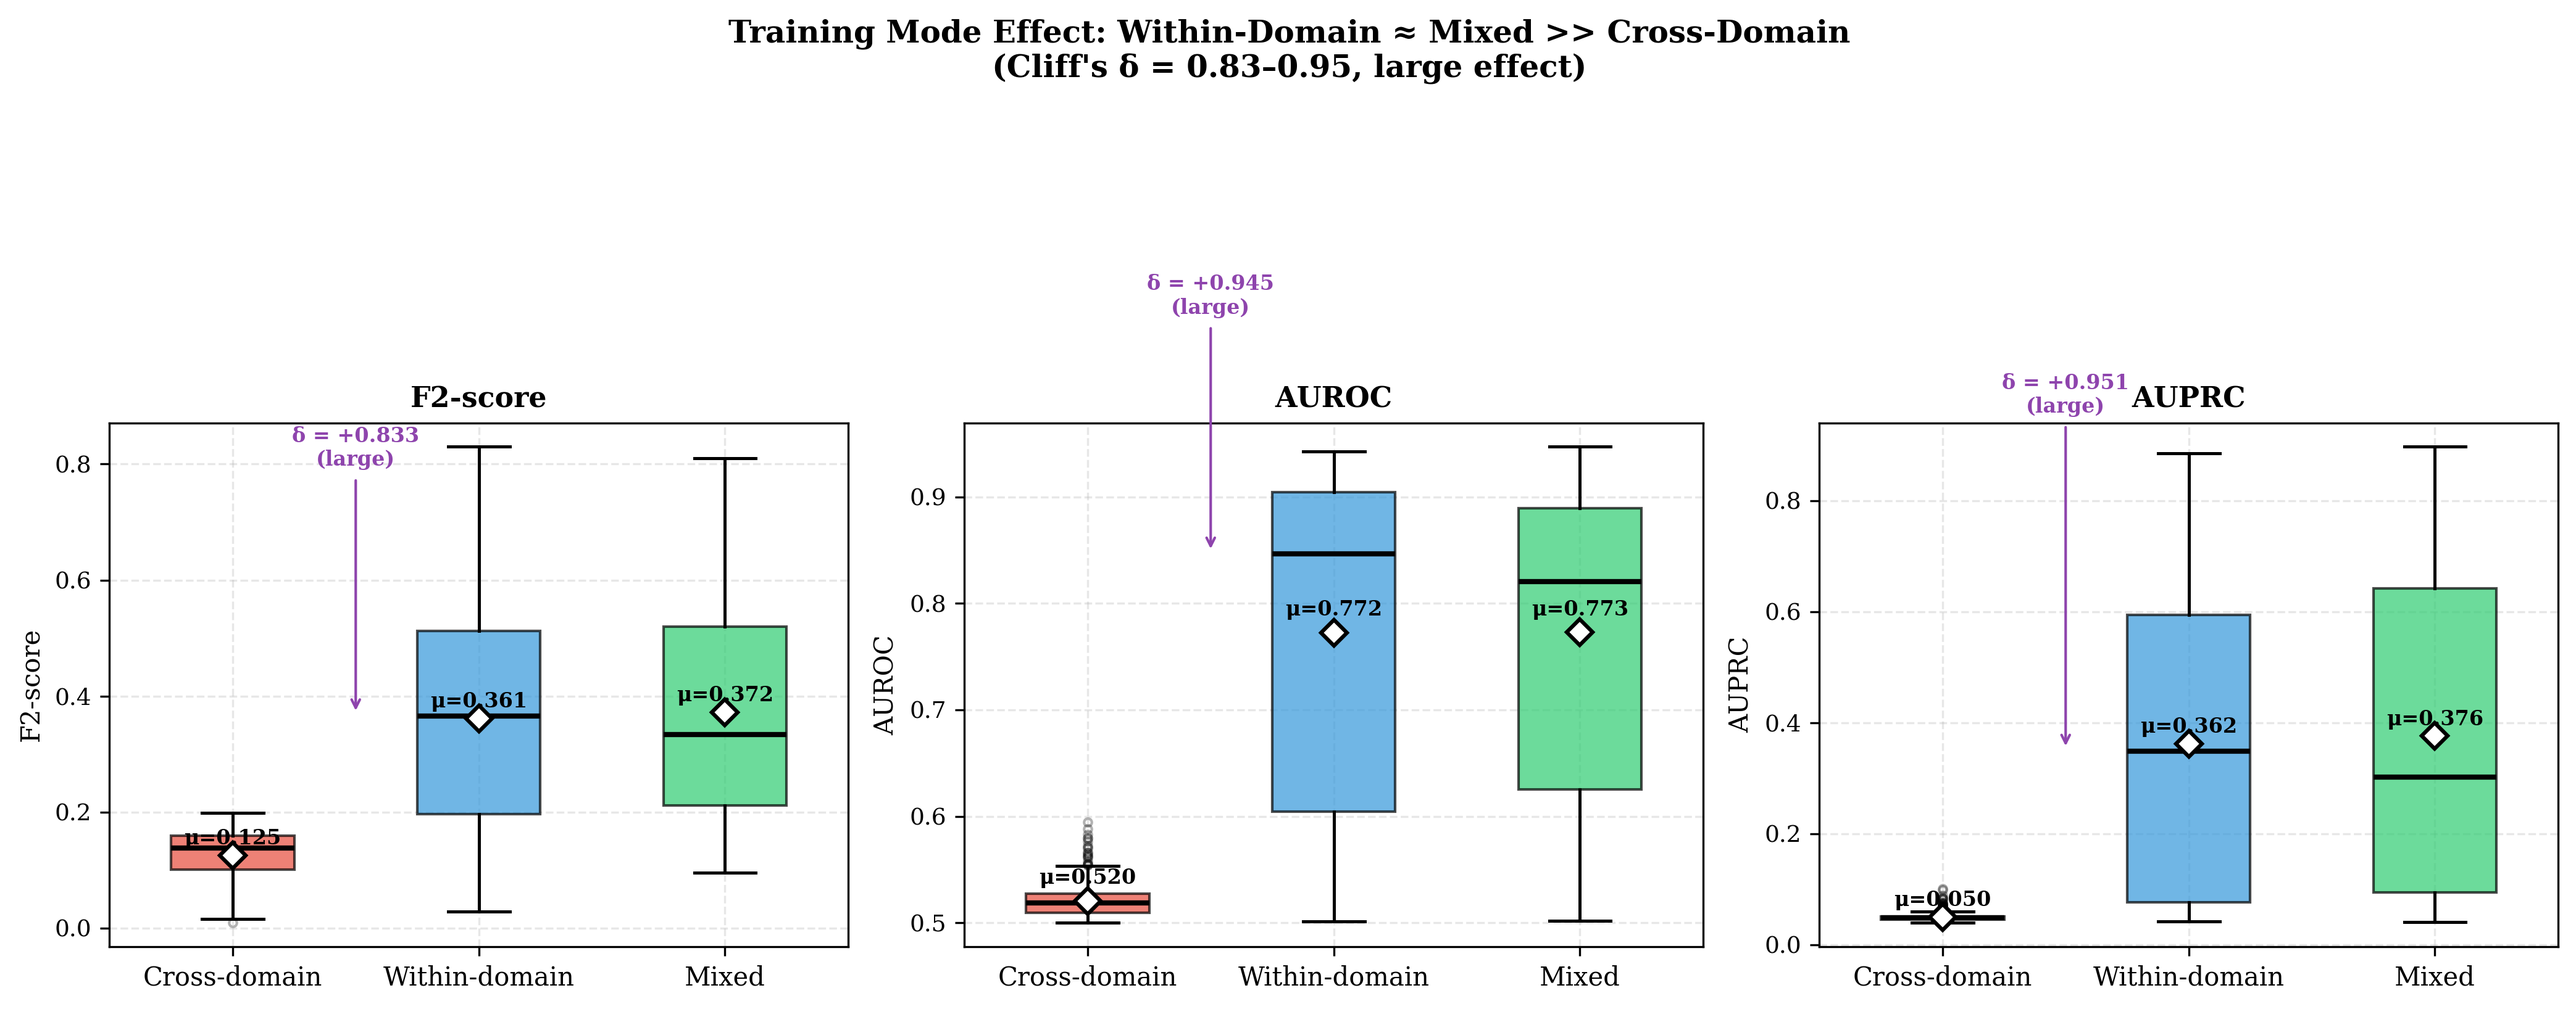
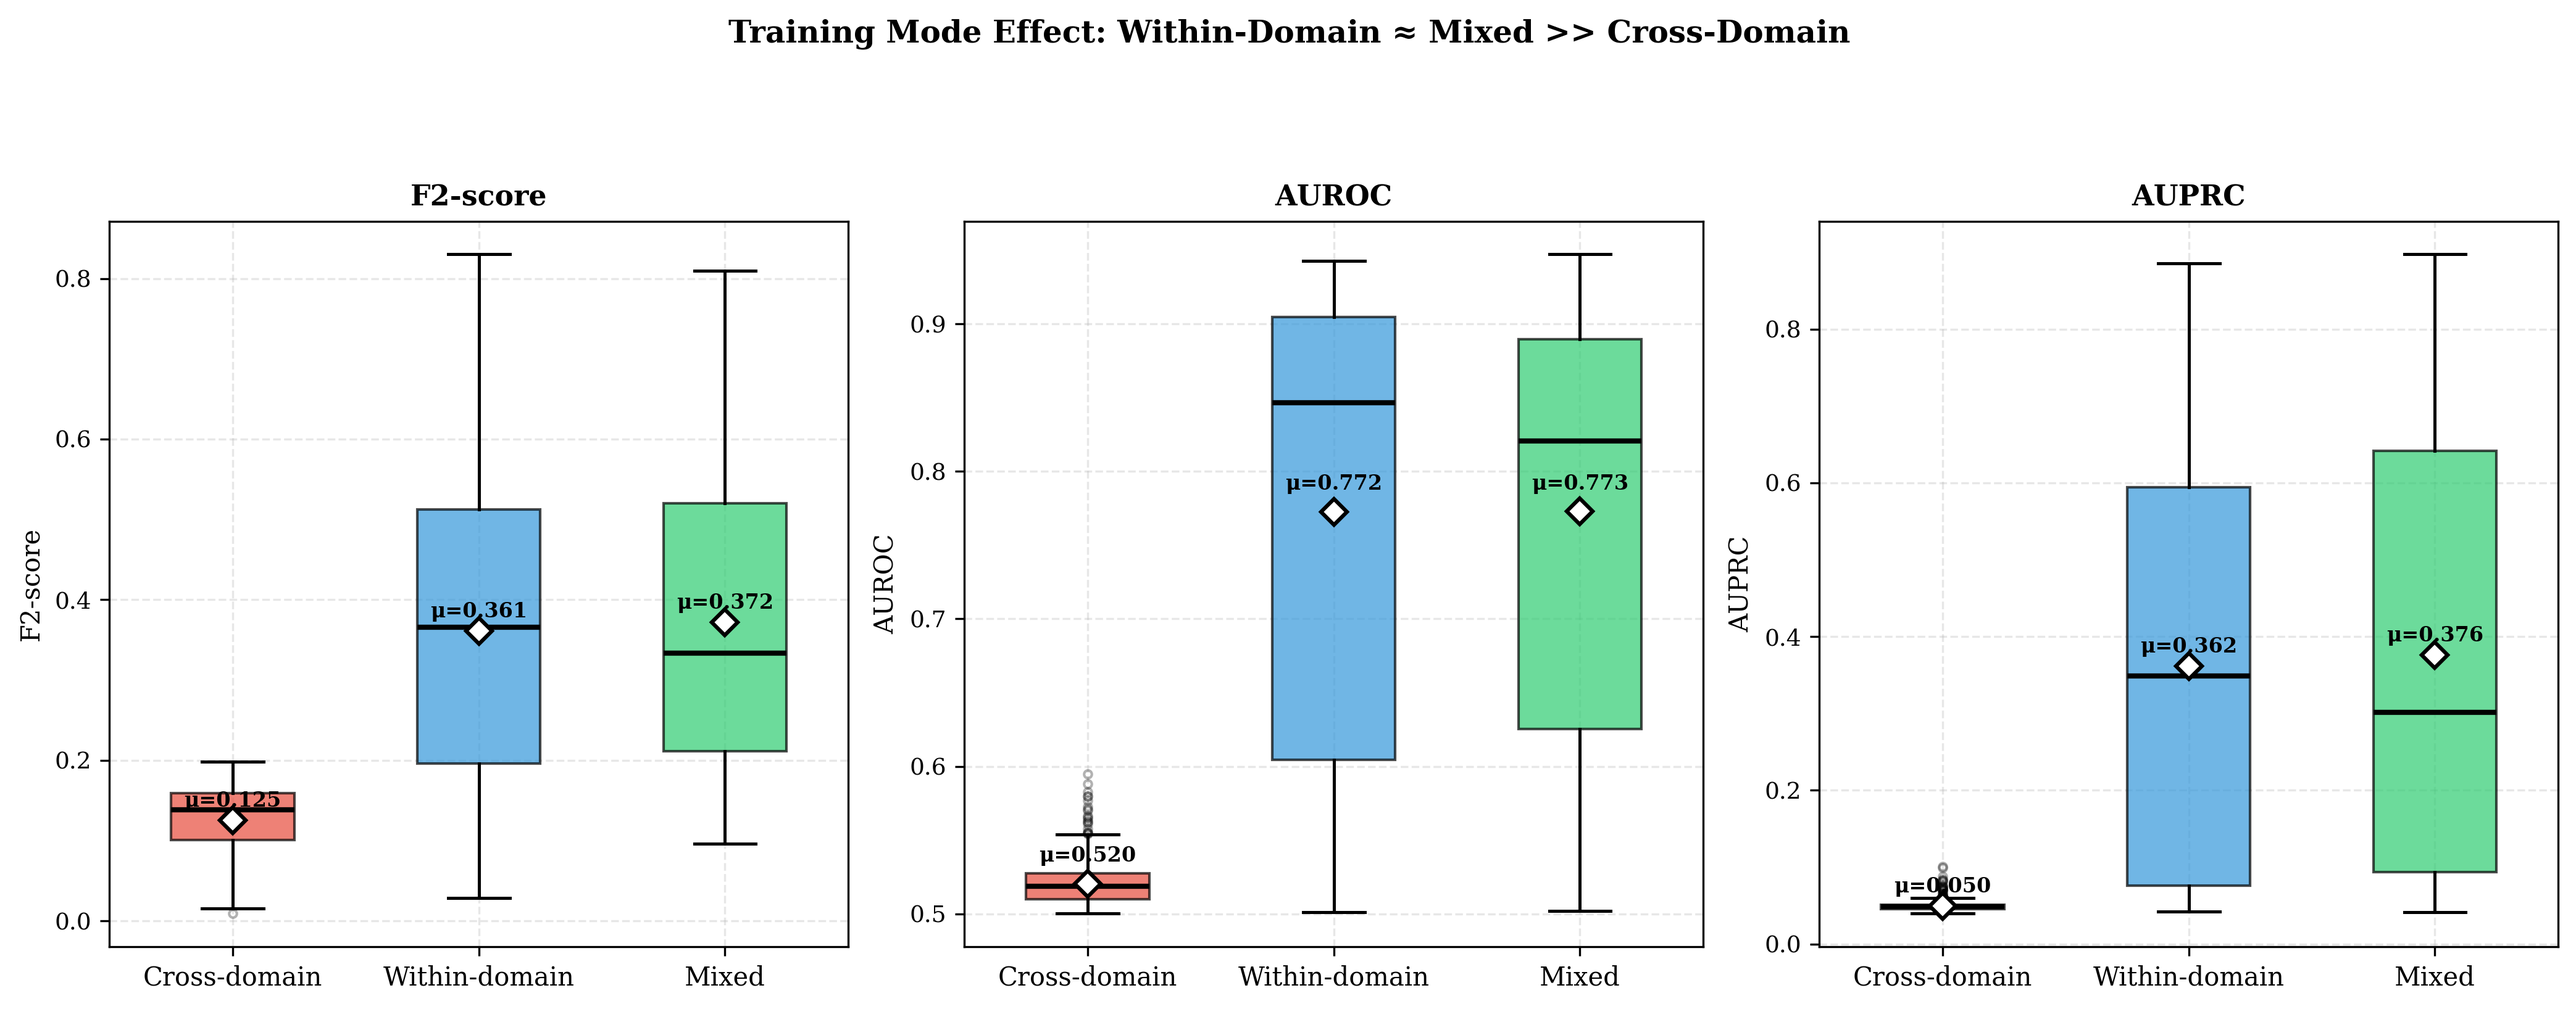
§4.3.3: add AUPRC row, remove δ annotations from Fig. 6
- Add AUPRC row to mode comparison table (0.050→0.376, δ=+0.951)
- Add AUPRC to inline comparison text
- Add Within vs Mixed δ<0.05 statement for all 3 metrics
- Remove Cliff's δ annotation code from plot_journal_figures_v2.py
- Regenerate Fig. 6 as clean box plot without arrows/annotations
- Simplify Fig. 6 caption (δ values now in table, not figure)

diff --git a/scripts/python/analysis/domain/plot_journal_figures_v2.py b/scripts/python/analysis/domain/plot_journal_figures_v2.py
@@ -545,36 +545,12 @@ def plot_mode_boxplot(df: pd.DataFrame):
             ax.text(i, vals.mean() + 0.012, f"μ={vals.mean():.3f}",
                     ha="center", va="bottom", fontsize=8, fontweight="bold")
 
-        # Cliff's δ annotations
-        cross = df[df["mode"] == "source_only"][metric].dropna().values
-        within = df[df["mode"] == "target_only"][metric].dropna().values
-        mixed_v = df[df["mode"] == "mixed"][metric].dropna().values
-
-        def cliff_d(x, y):
-            nx, ny = len(x), len(y)
-            more = sum(1 for xi in x for yj in y if xi > yj)
-            less = sum(1 for xi in x for yj in y if xi < yj)
-            return (more - less) / (nx * ny)
-
-        d_wc = cliff_d(within, cross)
-        d_mc = cliff_d(mixed_v, cross)
-        # Position annotation above the data
-        y_max = max(np.percentile(within, 95), np.percentile(mixed_v, 95))
-        ax.annotate(
-            f"δ = {d_wc:+.3f}\n(large)",
-            xy=(0.5, max(np.median(within), np.median(cross))),
-            xytext=(0.5, y_max * 1.15),
-            fontsize=8, ha="center", color="#8e44ad", fontweight="bold",
-            arrowprops=dict(arrowstyle="->", color="#8e44ad", lw=1),
-        )
-
         ax.set_xticks(range(3))
         ax.set_xticklabels([MODE_LABELS[m] for m in MODES], fontsize=10)
         ax.set_ylabel(mlabel, fontsize=10)
         ax.set_title(mlabel, fontsize=11, fontweight="bold")
 
-    fig.suptitle("Training Mode Effect: Within-Domain ≈ Mixed >> Cross-Domain\n"
-                 "(Cliff's δ = 0.83–0.95, large effect)",
+    fig.suptitle("Training Mode Effect: Within-Domain ≈ Mixed >> Cross-Domain",
                  fontsize=12, fontweight="bold")
     fig.tight_layout(rect=[0, 0, 1, 0.90])
     _save(fig, "fig6_mode_boxplot.png")

diff --git a/docs/experiments/results/exp2-analysis/journal_paper_draft.md b/docs/experiments/results/exp2-analysis/journal_paper_draft.md
@@ -329,13 +329,14 @@ The training mode has a massive impact on performance:
 |--------|:------------:|:-------------:|:-----:|:---------------------------:|
 | F2-score | 0.125 ± 0.043 | 0.361 ± 0.182 | 0.372 ± 0.178 | +0.833 (large) |
 | AUROC | 0.520 ± 0.015 | 0.773 ± 0.148 | 0.773 ± 0.140 | +0.945 (large) |
+| AUPRC | 0.050 ± 0.007 | 0.362 ± 0.272 | 0.376 ± 0.280 | +0.951 (large) |
 
-All 14 Friedman tests across conditions are significant (14/14, $p < 0.0001$), with Kendall's W ranging from 0.455 to 0.969. Mixed training performs equivalently to within-domain and substantially better than cross-domain (F2: $0.372$ vs. $0.125$; AUROC: $0.773$ vs. $0.520$), confirming the supplementary H9 finding (see Appendix C).
+All 14 Friedman tests across conditions are significant (14/14, $p < 0.0001$), with Kendall's W ranging from 0.455 to 0.969. Mixed training performs equivalently to within-domain and substantially better than cross-domain (F2: $0.372$ vs. $0.125$; AUROC: $0.773$ vs. $0.520$; AUPRC: $0.376$ vs. $0.050$), confirming the supplementary H9 finding (see Appendix C). Within-domain vs. Mixed is negligible across all three metrics ($\delta < 0.05$).
 
-Fig. 6 makes this mode separation visually striking. The box plots show that Cross-domain performance is compressed into a narrow, low-performance band for all three metrics, clearly separated from Within-domain and Mixed. The annotated Cliff's $\delta$ values quantify the gap: Cross-domain vs. Within/Mixed yields $\delta > 0.8$ (large effect), while Within-domain vs. Mixed is negligible ($\delta < 0.05$). This dichotomy — large separation from Cross-domain but equivalence between Within-domain and Mixed — has direct practical significance: mixing data from other vehicles into training does not degrade performance relative to using only matched-vehicle data.
+Fig. 6 makes this mode separation visually striking. The box plots show that Cross-domain performance is compressed into a narrow, low-performance band for all three metrics, clearly separated from Within-domain and Mixed. This dichotomy has direct practical significance: mixing data from other vehicles into training does not degrade performance relative to using only matched-vehicle data.
 
 ![Training Mode Box Plot](../../../../results/analysis/exp2_domain_shift/figures/png/split2/journal_v2/fig6_mode_boxplot.png)
-*Fig. 6. Performance distributions by training mode with Cliff's $\delta$ annotations. Cross-domain is clearly separated from Within-domain and Mixed ($\delta > 0.8$, large), while Within-domain and Mixed are statistically equivalent.*
+*Fig. 6. Performance distributions by training mode. Cross-domain is clearly separated from Within-domain and Mixed ($\delta > 0.8$, large), while Within-domain and Mixed are statistically equivalent ($\delta < 0.05$).*
 
 ### 4.4 Imbalance × Domain Interaction (RQ3: H6)
 
